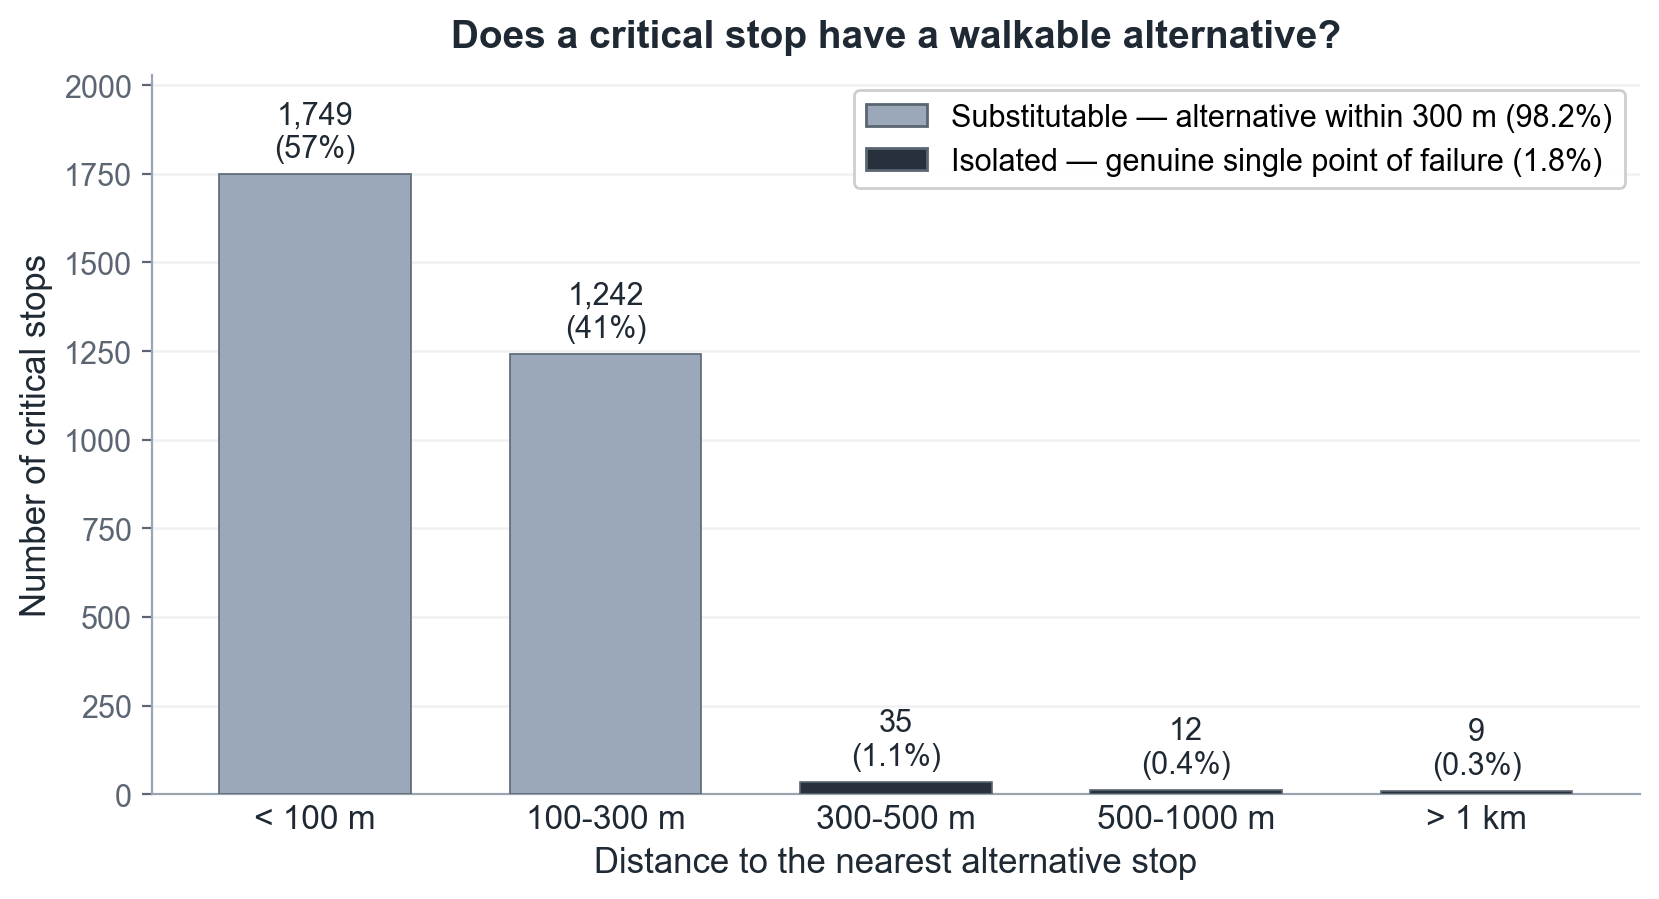
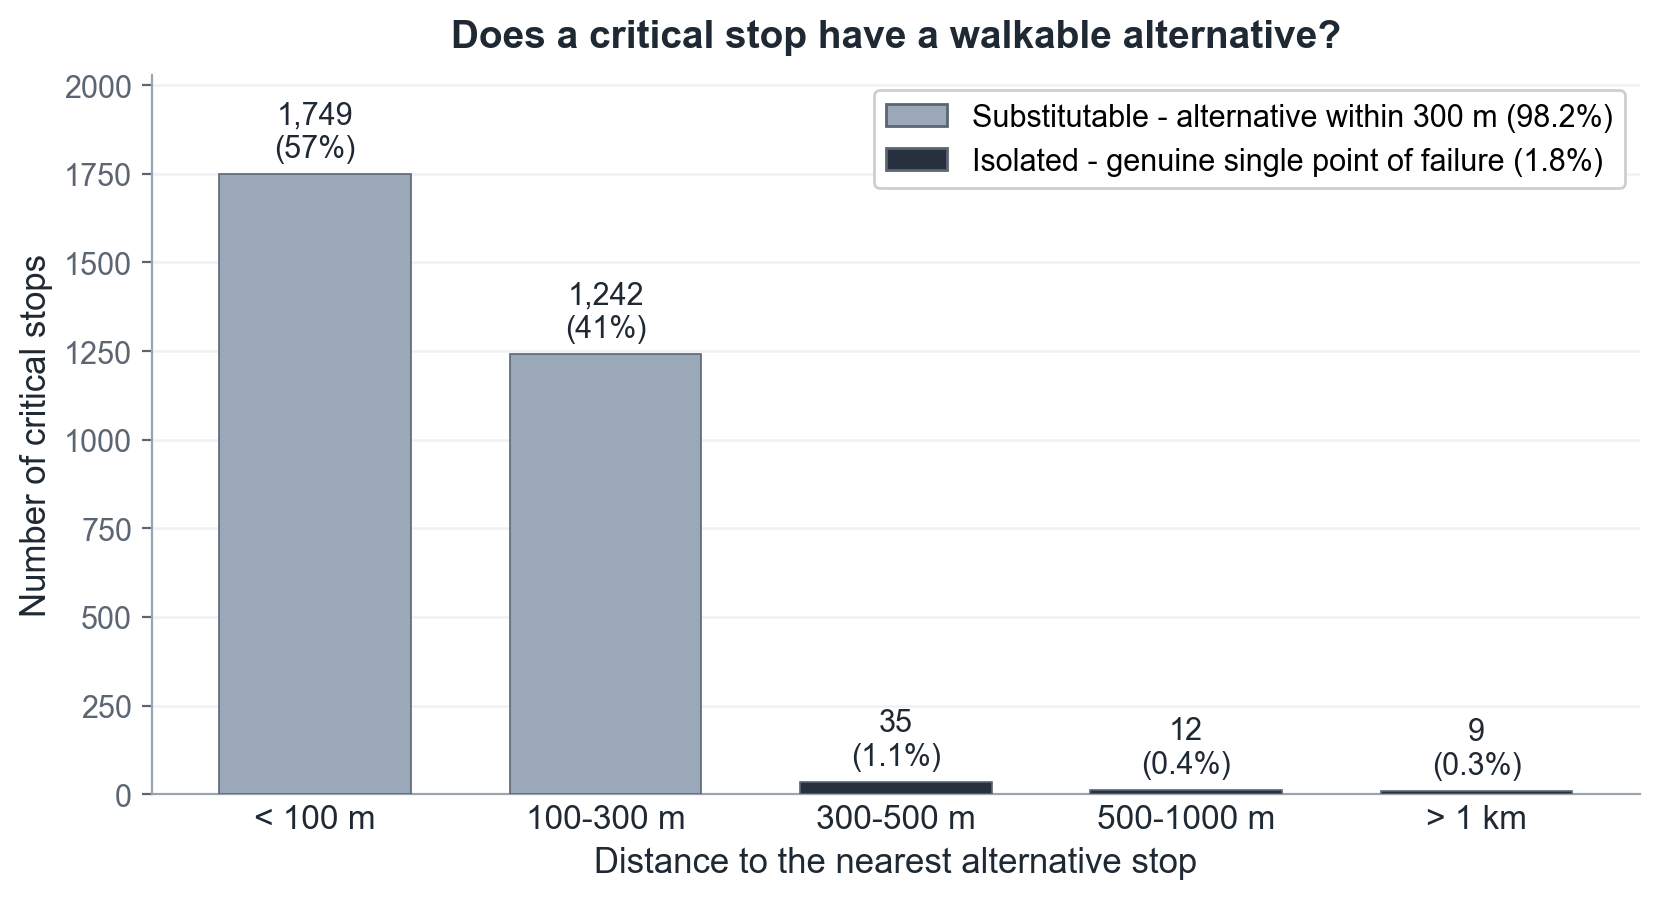
Use a plain hyphen instead of em dash in the isolation legend

Changed region(s): [[0.5226, 0.0934, 0.9837, 0.218]]

diff --git a/reports/make_isolation_figure.py b/reports/make_isolation_figure.py
@@ -49,8 +49,8 @@ for s in ("left", "bottom"):
     ax.spines[s].set_color("#9aa4af")
 
 legend = [
-    Patch(facecolor=LIGHT, edgecolor="#5b6672", label="Substitutable — alternative within 300 m (98.2%)"),
-    Patch(facecolor=DARK, edgecolor="#5b6672", label="Isolated — genuine single point of failure (1.8%)"),
+    Patch(facecolor=LIGHT, edgecolor="#5b6672", label="Substitutable - alternative within 300 m (98.2%)"),
+    Patch(facecolor=DARK, edgecolor="#5b6672", label="Isolated - genuine single point of failure (1.8%)"),
 ]
 ax.legend(handles=legend, loc="upper right", fontsize=11, frameon=True, framealpha=0.95)
 
